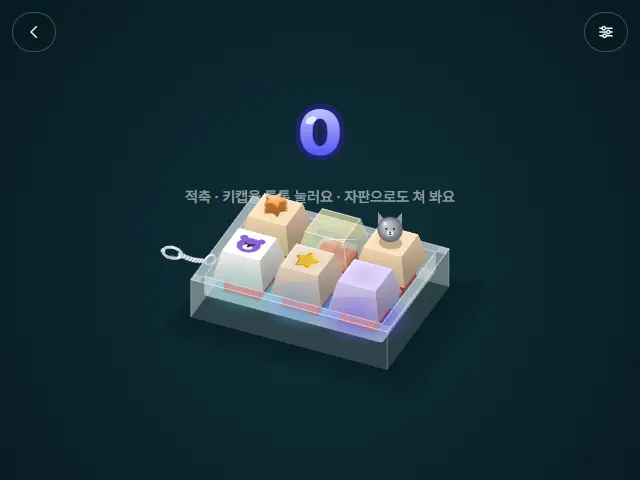
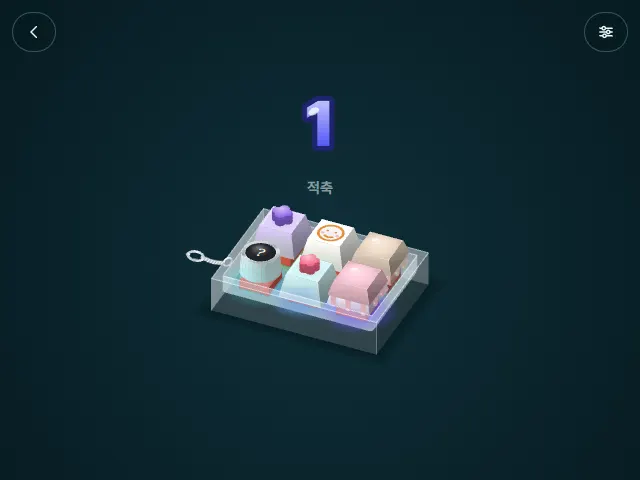
키캡을 돌려 볼 수 있게 — 빈 곳을 끌면 각도가 바뀐다
축측 투영의 yaw·pitch 를 변수로 바꾸고, 카메라 방향에 따라 먼 쪽·가까운 쪽 껍데기와 모서리의
그리는 순서를 뒤집는다. 상자 옆면도 매번 깊이순으로 정렬하고 밝기는 화면 법선으로 구해 빛이 고정된다.
맞히기는 여섯 면 전부에 대한 점-다각형 검사라 어느 각도에서도 보이는 캡만 눌린다.
숫자는 화면 윗끝에 매달아 돌려도 케이스와 겹치지 않는다.

Changed region(s): [[0.25, 0.375, 0.7188, 0.7812], [0.4375, 0.1875, 0.5625, 0.3438]]

diff --git a/lib/engines/KeycapEngine.ts b/lib/engines/KeycapEngine.ts
@@ -34,8 +34,12 @@ const STYLES: Style[] = ["pastel", "emoji", "figure", "clear", "pudding", "print
 const SWITCH_COLOR: Record<SwitchKind, string> = { red: "#d9463f", blue: "#3b7bd6", brown: "#8b5a3c", black: "#2a2d31", topre: "#8e6bd9" };
 const SWITCH_NAME: Record<SwitchKind, string> = { red: "적축", blue: "청축", brown: "갈축", black: "흑축", topre: "무접점" };
 
-// 오블리크 투영 — 카메라가 앞·오른쪽·위에서 본다
-const TH = 0.42, CT = Math.cos(TH), ST = Math.sin(TH), FL = 0.6;
+/**
+ * 축측 투영 — z 는 언제나 화면 위, x·y 는 yaw 로 돌고 pitch(세로 눌림)로 눕는다.
+ * 빈 곳을 끌면 이 둘이 바뀌어 다른 각도에서 볼 수 있다 (2026-09-13 사용자).
+ *   pitch 1 에 가까울수록 위에서, 0 에 가까울수록 옆에서 본 모습
+ */
+const YAW0 = 0.42, PITCH0 = 0.6;
 // 키 하나의 치수 (키 간격 = 1)
 const CAP_B = 0.44, CAP_T = 0.33, CAP_H = 0.4, CAP_Z = 0.24, TRAVEL = 0.12;
 const CASE_H = 0.3, CASE_PAD = 0.2;
@@ -62,10 +66,15 @@ export const createKeycapEngine: EngineFactory = (canvas, ctx0) => {
   }
   let keys: Key[] = [];
   let cols = 1, rows = 1, S = 80, cx = 0, cy = 0;
+  let yaw = YAW0, pitch = PITCH0;
+  let CT = Math.cos(yaw), ST = Math.sin(yaw);
+  const setView = () => { CT = Math.cos(yaw); ST = Math.sin(yaw); };
   let total = 0;
   let ledMix = led ? 1 : 0;
   const waves: Wave[] = [];
   const pressedBy = new Map<number | string, number>();
+  /** 빈 곳을 끄는 중인 손가락 — 키를 누르는 손가락과 섞이지 않게 따로 센다 */
+  const orbiting = new Set<number>();
   /** 풍선 숫자 — 누를 때마다 통통, 자릿수가 늘면(10·100·1000) 더 크게 부풀고 축하가 커진다 */
   let bounce = 0, levelPop = 0, ringLife = 0, ringLevel = 1;
   const confetti: Confetti[] = [];
@@ -111,13 +120,16 @@ export const createKeycapEngine: EngineFactory = (canvas, ctx0) => {
     keys = [];
     setCount(count);
   };
+  /** 돌려도 화면을 벗어나지 않게 — 바깥 반지름으로 잡아 yaw 와 무관한 크기를 쓴다 */
   const fit = () => {
-    const wU = (cols + CASE_PAD * 2) * CT + (rows + CASE_PAD * 2) * ST + 0.6;
-    const hU = ((cols + CASE_PAD * 2) * ST + (rows + CASE_PAD * 2) * CT) * FL + CAP_H + CASE_H + 1.1;
-    S = clamp(Math.min((c.w * 0.86) / wU, (c.h * 0.52) / hU), 34, 170);
+    const rad = Math.hypot(cols / 2 + CASE_PAD, rows / 2 + CASE_PAD);
+    const wU = rad * 2 + 0.7;
+    const hU = rad * 2 * pitch + CAP_H + CASE_H + RIM + 1.2;
+    S = clamp(Math.min((c.w * 0.86) / wU, (c.h * 0.52) / hU), 30, 170);
     cx = c.w / 2; cy = c.h * 0.57 + (CASE_H * S) / 2;
   };
-  const P = (x: number, y: number, z: number): [number, number] => [cx + (x * CT - y * ST) * S, cy + (x * ST + y * CT) * FL * S - z * S];
+  const P = (x: number, y: number, z: number): [number, number] => [cx + (x * CT - y * ST) * S, cy + (x * ST + y * CT) * pitch * S - z * S];
+  /** 카메라 쪽으로 얼마나 가까운가 — 클수록 앞 */
   const depth = (x: number, y: number) => x * ST + y * CT;
   shuffle();
 
@@ -145,9 +157,12 @@ export const createKeycapEngine: EngineFactory = (canvas, ctx0) => {
     }
   };
   const releaseKey = (i: number) => { const k = keys[i]; if (!k || k.target === 0) return; k.target = 0; k.wobble = 1; k.wobPhase = 0; if (sound) keySound(sw, "up", 0.92 + (i % 5) * 0.04); };
-  const topQuad = (k: Key) => {
-    const z = CAP_Z + CAP_H - k.press * TRAVEL;
-    return [P(k.gx - CAP_T, k.gy - CAP_T, z), P(k.gx + CAP_T, k.gy - CAP_T, z), P(k.gx + CAP_T, k.gy + CAP_T, z), P(k.gx - CAP_T, k.gy + CAP_T, z)];
+  /** 키캡의 밑면·윗면 네 점 — 맞히기는 이 여덟 점이 만드는 실루엣으로 본다(어느 각도에서든 맞다) */
+  const capBox = (k: Key) => {
+    const z0 = CAP_Z - k.press * TRAVEL;
+    const zt = z0 + CAP_H + (k.look.style === "figure" ? 0.3 : 0);
+    const c4 = (w: number, z: number) => [P(k.gx - w, k.gy - w, z), P(k.gx + w, k.gy - w, z), P(k.gx + w, k.gy + w, z), P(k.gx - w, k.gy + w, z)] as [number, number][];
+    return { B: c4(CAP_B, z0), T: c4(CAP_T, zt) };
   };
   const inPoly = (pts: [number, number][], x: number, y: number) => {
     let ins = false;
@@ -157,14 +172,16 @@ export const createKeycapEngine: EngineFactory = (canvas, ctx0) => {
     }
     return ins;
   };
+  /** 가까운 키부터 본다 — 앞 키에 가려진 자리는 앞 키가 눌린다(보이는 것만 눌린다) */
   const keyAt = (x: number, y: number) => {
     const order = keys.map((k, i) => i).sort((a, b) => depth(keys[b].gx, keys[b].gy) - depth(keys[a].gx, keys[a].gy));
     for (const i of order) {
-      const q = topQuad(keys[i]);
-      const ext: [number, number][] = [q[0], q[1], [q[1][0], q[1][1] + CAP_H * S * 0.9], [q[3][0], q[3][1] + CAP_H * S * 0.9], q[3]];
-      // 피규어 머리까지 눌리는 영역으로
-      const up: [number, number][] = [[q[0][0], q[0][1] - S * 0.55], [q[1][0], q[1][1] - S * 0.55], q[2], q[3]];
-      if (inPoly(q, x, y) || inPoly(ext, x, y) || (keys[i].look.style === "figure" && inPoly(up, x, y))) return i;
+      const { B, T } = capBox(keys[i]);
+      if (inPoly(T, x, y)) return i;
+      for (const f of SIDE_FACES) {
+        const [i0, i1] = f.i;
+        if (inPoly([B[i0], B[i1], T[i1], T[i0]], x, y)) return i;
+      }
     }
     return -1;
   };
@@ -195,6 +212,18 @@ export const createKeycapEngine: EngineFactory = (canvas, ctx0) => {
   };
   const path = (pts: [number, number][]) => { ctx.beginPath(); pts.forEach((p, i) => (i === 0 ? ctx.moveTo(p[0], p[1]) : ctx.lineTo(p[0], p[1]))); ctx.closePath(); };
   const quad = (pts: [number, number][], fill: string | CanvasGradient) => { path(pts); ctx.fillStyle = fill; ctx.fill(); };
+  /** 상자의 옆면 넷 — 바깥 법선과 밑·윗면 모서리 짝 */
+  const SIDE_FACES: { n: [number, number]; i: [number, number] }[] = [
+    { n: [0, -1], i: [0, 1] }, { n: [1, 0], i: [1, 2] }, { n: [0, 1], i: [2, 3] }, { n: [-1, 0], i: [3, 0] },
+  ];
+  /** 면이 화면에서 어느 쪽을 보는지로 밝기를 정한다 — 돌려도 빛이 왼쪽 위에 그대로 있다 */
+  const faceLit = (n: [number, number]) => {
+    const sxc = n[0] * CT - n[1] * ST, dep = n[0] * ST + n[1] * CT;
+    return clamp(0.76 - sxc * 0.18 + dep * 0.1, 0.55, 1.02);
+  };
+  /** 먼 면부터 그리도록 정렬 */
+  const facesBackToFront = () => SIDE_FACES.slice().sort((a, b) => a.n[0] * ST + a.n[1] * CT - (b.n[0] * ST + b.n[1] * CT));
+
   /** 위→아래로 옅게 어두워지는 옆면 — 평면 한 색보다 둥글게 읽힌다 */
   const sideGrad = (top: [number, number][], bottom: [number, number][], col: string, k: number) => {
     const g = ctx.createLinearGradient((top[0][0] + top[1][0]) / 2, (top[0][1] + top[1][1]) / 2, (bottom[0][0] + bottom[1][0]) / 2, (bottom[0][1] + bottom[1][1]) / 2);
@@ -218,10 +247,10 @@ export const createKeycapEngine: EngineFactory = (canvas, ctx0) => {
     const jx = jelly?.dx ?? 0, jy = jelly?.dy ?? 0, sq = jelly?.sq ?? 1, tw = t * (2 - sq) ** 0.5, hz = h * sq;
     const T = [P(x - tw + jx, y - tw + jy, z0 + hz), P(x + tw + jx, y - tw + jy, z0 + hz), P(x + tw + jx, y + tw + jy, z0 + hz), P(x - tw + jx, y + tw + jy, z0 + hz)];
     ctx.globalAlpha = sideAlpha;
-    quad([B[0], B[1], T[1], T[0]], sideGrad([T[0], T[1]], [B[0], B[1]], sideCol, 0.95)); // 뒤
-    quad([B[0], B[3], T[3], T[0]], sideGrad([T[0], T[3]], [B[0], B[3]], sideCol, 0.9)); // 왼쪽
-    quad([B[1], B[2], T[2], T[1]], sideGrad([T[1], T[2]], [B[1], B[2]], sideCol, 0.72)); // 오른쪽
-    quad([B[3], B[2], T[2], T[3]], sideGrad([T[3], T[2]], [B[3], B[2]], sideCol, 0.86)); // 앞
+    for (const f of facesBackToFront()) {
+      const [i0, i1] = f.i;
+      quad([B[i0], B[i1], T[i1], T[i0]], sideGrad([T[i0], T[i1]], [B[i0], B[i1]], sideCol, faceLit(f.n)));
+    }
     ctx.globalAlpha = alpha;
     quad(T, shade(col, 1.04));
     ctx.globalAlpha = 1;
@@ -232,10 +261,10 @@ export const createKeycapEngine: EngineFactory = (canvas, ctx0) => {
     const B = [P(x - wx, y - wy, z0), P(x + wx, y - wy, z0), P(x + wx, y + wy, z0), P(x - wx, y + wy, z0)];
     const T = [P(x - wx, y - wy, z0 + h), P(x + wx, y - wy, z0 + h), P(x + wx, y + wy, z0 + h), P(x - wx, y + wy, z0 + h)];
     ctx.globalAlpha = alpha;
-    quad([B[0], B[1], T[1], T[0]], shade(col, 0.95));
-    quad([B[0], B[3], T[3], T[0]], shade(col, 0.9));
-    quad([B[1], B[2], T[2], T[1]], shade(col, 0.72));
-    quad([B[3], B[2], T[2], T[3]], shade(col, 0.86));
+    for (const f of facesBackToFront()) {
+      const [i0, i1] = f.i;
+      quad([B[i0], B[i1], T[i1], T[i0]], shade(col, faceLit(f.n)));
+    }
     quad(T, shade(col, 1.06));
     ctx.globalAlpha = 1;
   };
@@ -405,7 +434,9 @@ export const createKeycapEngine: EngineFactory = (canvas, ctx0) => {
     // 횟수 — 풍선 숫자. 자릿수만큼 크고, 누르면 통통, 자릿수가 늘면 크게 부풀며 축하
     bounce *= damp(7, dt); levelPop *= damp(3.5, dt); ringLife = Math.max(0, ringLife - dt * 0.9);
     const level = digitsOf(total);
-    const topY = P(0, -rows / 2 - CASE_PAD, CAP_Z + CAP_H)[1] - clamp(c.h * 0.13, 64, 120);
+    // 숫자 자리 — 모델의 한 점에 매달면 돌릴 때 케이스와 겹친다. 물체의 화면 윗끝에서 잰다
+    const radU = Math.hypot(cols / 2 + CASE_PAD, rows / 2 + CASE_PAD);
+    const topY = clamp(cy - (radU * pitch + RIM + CAP_H + 0.3) * S - clamp(c.h * 0.07, 34, 64), c.h * 0.1, c.h * 0.45);
     counterY = topY;
     const baseSize = clamp(c.w * 0.1, 36, 68) * Math.min(1.9, 1 + 0.16 * (level - 1));
     const scale = 1 + bounce * 0.22 + levelPop * 0.5;
@@ -436,7 +467,7 @@ export const createKeycapEngine: EngineFactory = (canvas, ctx0) => {
     ctx.font = `600 ${clamp(c.w * 0.03, 12, 15)}px Pretendard, system-ui, sans-serif`;
     ctx.fillStyle = "rgba(238, 247, 248, 0.55)";
     // 숫자 아래에는 축 이름만 — "번 눌렀어요" 는 숫자와 떨어져 있어 어색했다 (2026-09-13 사용자)
-    ctx.fillText(total === 0 ? `${SWITCH_NAME[sw]} · 키캡을 톡톡 눌러요 · 자판으로도 쳐 봐요` : SWITCH_NAME[sw], c.w / 2, topY + baseSize * 0.72 + 14);
+    ctx.fillText(total === 0 ? `${SWITCH_NAME[sw]} · 키캡을 톡톡 눌러요 · 빈 곳을 끌면 돌아가요` : SWITCH_NAME[sw], c.w / 2, topY + baseSize * 0.72 + 14);
 
     /*
      * 케이스 — **투명 아크릴**. 바닥판(z 0) 위로 벽이 RIM 만큼 솟아 키캡의 아랫부분을 감싼다.
@@ -451,29 +482,30 @@ export const createKeycapEngine: EngineFactory = (canvas, ctx0) => {
 
     for (let k = 6; k >= 1; k--) {
       const g = k * 0.05;
-      quad([P(-hx - g, -hy - g, -CASE_H), P(hx + g * 2.4, -hy - g, -CASE_H), P(hx + g * 2.4, hy + g * 2.2, -CASE_H), P(-hx - g, hy + g * 2.2, -CASE_H)], "rgba(0, 8, 12, 0.07)");
+      quad([P(-hx - g, -hy - g, -CASE_H), P(hx + g, -hy - g, -CASE_H), P(hx + g, hy + g, -CASE_H), P(-hx - g, hy + g, -CASE_H)], "rgba(0, 8, 12, 0.07)");
     }
-    // 뒤·왼쪽 껍데기 + 윗테
+    // 어느 쪽이 카메라에 가까운지 — 돌리면 앞뒤가 뒤바뀐다
+    const ny = CT >= 0 ? 1 : -1, nx = ST >= 0 ? 1 : -1;
+    // 먼 쪽 껍데기 + 윗테 (키캡보다 먼저)
     ctx.globalAlpha = 0.5;
-    wallY(-hy, -hx, hx, -CASE_H, RIM, shade(ACRYL, 0.7));
-    wallX(-hx, -hy, hy, -CASE_H, RIM, shade(ACRYL, 0.78));
-    flat(-hx, -hy, hx, -ihy, RIM, shade(ACRYL, 1.02));
-    flat(-hx, -ihy, -ihx, hy, RIM, shade(ACRYL, 0.98));
+    wallY(-ny * hy, -hx, hx, -CASE_H, RIM, shade(ACRYL, faceLit([0, -ny])));
+    wallX(-nx * hx, -hy, hy, -CASE_H, RIM, shade(ACRYL, faceLit([-nx, 0])));
     ctx.globalAlpha = 0.3;
-    flat(ihx, -hy, hx, ihy, RIM, shade(ACRYL, 1));
+    flat(-hx, -ny * hy, hx, -ny * ihy, RIM, shade(ACRYL, 1.02));
+    flat(-nx * ihx, -ihy, -nx * hx, ihy, RIM, shade(ACRYL, 0.98));
     ctx.globalAlpha = 0.6;
-    wallY(-ihy, -ihx, ihx, 0, RIM, shade(ACRYL, 0.88));
-    wallX(-ihx, -ihy, ihy, 0, RIM, shade(ACRYL, 0.93));
+    wallY(-ny * ihy, -ihx, ihx, 0, RIM, shade(ACRYL, 0.9));
+    wallX(-nx * ihx, -ihy, ihy, 0, RIM, shade(ACRYL, 0.93));
     ctx.globalAlpha = 1;
-    // 뒤·왼쪽 모서리 — 키캡 뒤에 있으므로 캡보다 먼저 그린다
+    // 먼 쪽 모서리 — 키캡보다 먼저 그려야 캡 위에 선이 얹히지 않는다
     ctx.lineWidth = Math.max(1, S * 0.012); ctx.strokeStyle = "rgba(255,255,255,0.5)";
     for (const [ex, ey] of [[hx, hy], [ihx, ihy]] as const) {
-      const back = P(-ex, -ey, RIM), right = P(ex, -ey, RIM), left = P(-ex, ey, RIM);
-      ctx.beginPath(); ctx.moveTo(left[0], left[1]); ctx.lineTo(back[0], back[1]); ctx.lineTo(right[0], right[1]); ctx.stroke();
+      const far = P(-nx * ex, -ny * ey, RIM), a1 = P(nx * ex, -ny * ey, RIM), a2 = P(-nx * ex, ny * ey, RIM);
+      ctx.beginPath(); ctx.moveTo(a2[0], a2[1]); ctx.lineTo(far[0], far[1]); ctx.lineTo(a1[0], a1[1]); ctx.stroke();
     }
     ctx.strokeStyle = "rgba(255,255,255,0.28)";
     {
-      const a = P(hx, -hy, RIM), b2 = P(hx, -hy, -CASE_H);
+      const a = P(-nx * hx, -ny * hy, RIM), b2 = P(-nx * hx, -ny * hy, -CASE_H);
       ctx.beginPath(); ctx.moveTo(a[0], a[1]); ctx.lineTo(b2[0], b2[1]); ctx.stroke();
     }
     // 바닥판 — 스위치 소켓·핀·LED
@@ -626,22 +658,23 @@ export const createKeycapEngine: EngineFactory = (canvas, ctx0) => {
 
     // 앞·오른쪽 껍데기 — 키캡 **위에** 덮어 감싸고, 반투명이라 캡 밑동과 스위치가 비친다
     ctx.globalAlpha = 0.16;
-    wallY(ihy, -ihx, ihx, 0, RIM, shade(ACRYL, 1));
-    wallX(ihx, -ihy, ihy, 0, RIM, shade(ACRYL, 0.92));
+    wallY(ny * ihy, -ihx, ihx, 0, RIM, shade(ACRYL, 1));
+    wallX(nx * ihx, -ihy, ihy, 0, RIM, shade(ACRYL, 0.92));
     ctx.globalAlpha = 0.3;
-    flat(-hx, ihy, hx, hy, RIM, shade(ACRYL, 1.05));
+    flat(-hx, ny * ihy, hx, ny * hy, RIM, shade(ACRYL, 1.05));
+    flat(nx * ihx, -ihy, nx * hx, ihy, RIM, shade(ACRYL, 1));
     ctx.globalAlpha = 0.2;
-    wallY(hy, -hx, hx, -CASE_H, RIM, shade(ACRYL, 0.88));
-    wallX(hx, -hy, hy, -CASE_H, RIM, shade(ACRYL, 0.8));
+    wallY(ny * hy, -hx, hx, -CASE_H, RIM, shade(ACRYL, faceLit([0, ny])));
+    wallX(nx * hx, -hy, hy, -CASE_H, RIM, shade(ACRYL, faceLit([nx, 0])));
     ctx.globalAlpha = 1;
-    // 앞·오른쪽 모서리만 캡 위에 — 뒤쪽 모서리는 이미 캡보다 먼저 그렸다
+    // 가까운 쪽 모서리만 캡 위에 — 먼 쪽은 이미 캡보다 먼저 그렸다
     ctx.lineWidth = Math.max(1, S * 0.012); ctx.strokeStyle = "rgba(255,255,255,0.55)";
     for (const [ex, ey] of [[hx, hy], [ihx, ihy]] as const) {
-      const right = P(ex, -ey, RIM), corner = P(ex, ey, RIM), front = P(-ex, ey, RIM);
-      ctx.beginPath(); ctx.moveTo(right[0], right[1]); ctx.lineTo(corner[0], corner[1]); ctx.lineTo(front[0], front[1]); ctx.stroke();
+      const a1 = P(nx * ex, -ny * ey, RIM), near = P(nx * ex, ny * ey, RIM), a2 = P(-nx * ex, ny * ey, RIM);
+      ctx.beginPath(); ctx.moveTo(a1[0], a1[1]); ctx.lineTo(near[0], near[1]); ctx.lineTo(a2[0], a2[1]); ctx.stroke();
     }
     ctx.strokeStyle = "rgba(255,255,255,0.3)";
-    for (const [ex, ey] of [[hx, hy], [-hx, hy]] as const) {
+    for (const [ex, ey] of [[nx * hx, ny * hy], [-nx * hx, ny * hy]] as const) {
       const a = P(ex, ey, RIM), b = P(ex, ey, -CASE_H);
       ctx.beginPath(); ctx.moveTo(a[0], a[1]); ctx.lineTo(b[0], b[1]); ctx.stroke();
     }
@@ -656,7 +689,7 @@ export const createKeycapEngine: EngineFactory = (canvas, ctx0) => {
         g.addColorStop(0, "#ffffff"); g.addColorStop(0.34, "#b7bec6"); g.addColorStop(0.62, "#eef2f5"); g.addColorStop(1, "#79818b");
         return g;
       };
-      const [ax, ay] = P(-hx + 0.04, hy * 0.35, RIM * 0.45);
+      const [ax, ay] = P(-nx * (hx - 0.04), ny * hy * 0.35, RIM * 0.45);
       ctx.lineWidth = Math.max(1.8, S * 0.032); ctx.strokeStyle = metal(ax, ay, S * 0.1);
       ctx.beginPath(); ctx.ellipse(ax - S * 0.05, ay - S * 0.06, S * 0.09, S * 0.062, -0.7, 0, TAU); ctx.stroke();
       let last: [number, number] = [ax - S * 0.12, ay - S * 0.04];
@@ -687,18 +720,37 @@ export const createKeycapEngine: EngineFactory = (canvas, ctx0) => {
     start: () => loop.start(),
     stop: () => loop.stop(),
     dispose: () => { loop.stop(); window.removeEventListener("keydown", onKeyDown); window.removeEventListener("keyup", onKeyUp); },
-    pointerDown(x, y, id) { const i = keyAt(x, y); if (i >= 0) { pressedBy.set(id, i); pressKey(i); } },
+    pointerDown(x, y, id) {
+      const i = keyAt(x, y);
+      if (i >= 0) { pressedBy.set(id, i); pressKey(i); return; }
+      orbiting.add(id); // 키캡이 아닌 곳 → 돌려 보기
+    },
     pointerMove(x, y, _dx, _dy, id, pressed) {
+      if (orbiting.has(id)) {
+        if (!pressed) { orbiting.delete(id); return; }
+        yaw -= _dx * 0.009;
+        pitch = clamp(pitch + _dy * 0.0035, 0.12, 0.95);
+        setView(); fit();
+        return;
+      }
       if (!pressed) return;
       const cur = pressedBy.get(id); const i = keyAt(x, y);
       if (cur !== undefined && i !== cur) { releaseKey(cur); pressedBy.delete(id); }
       if (i >= 0 && i !== cur) { pressedBy.set(id, i); pressKey(i); }
     },
-    pointerUp(id) { const i = pressedBy.get(id); if (i !== undefined) { releaseKey(i); pressedBy.delete(id); } },
+    pointerUp(id) {
+      orbiting.delete(id);
+      const i = pressedBy.get(id);
+      if (i !== undefined) { releaseKey(i); pressedBy.delete(id); }
+    },
     wheel() {},
     tilt() {},
     idle() {},
-    clear() { total = 0; bounce = 0; levelPop = 0; ringLife = 0; confetti.length = 0; shuffle(); },
+    clear() {
+      total = 0; bounce = 0; levelPop = 0; ringLife = 0; confetti.length = 0;
+      yaw = YAW0; pitch = PITCH0; setView(); // 각도도 처음으로
+      shuffle();
+    },
     setSound(on) { sound = on; },
     setParam(key, value) {
       if (key === "count" && typeof value === "number") setCount(value);
